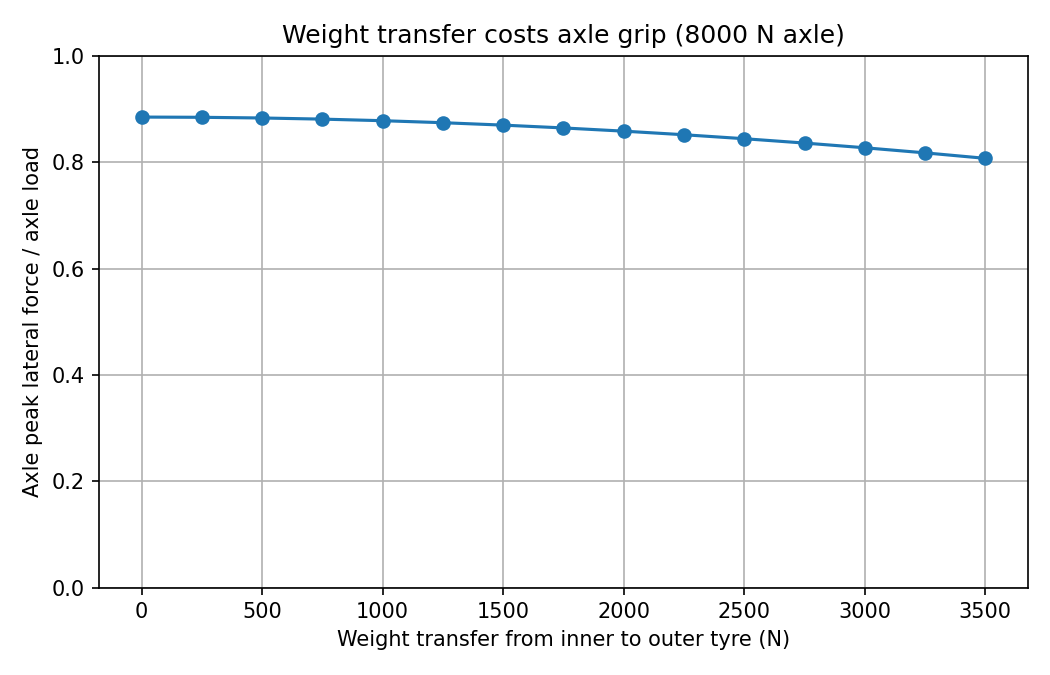
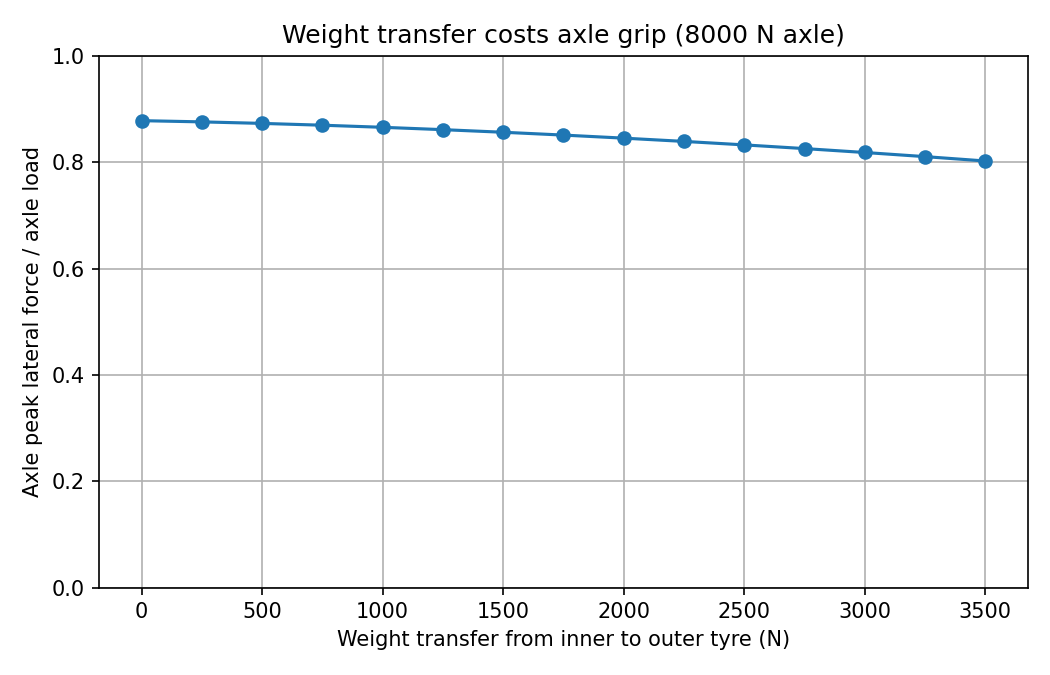
Update README and figure for mirrored tyres

Changed region(s): [[0.1219, 0.1556, 0.9448, 0.2489]]

diff --git a/README.md b/README.md
@@ -29,7 +29,7 @@ This is validation against another implementation, not against measured tyre dat
 
 ![Lateral force against slip angle](figures/lateral_force.png)
 
-Grip grows with load but less than in proportion: peak lateral force per newton of load falls from 0.91 at 2000 N to 0.81 at 8000 N.
+Grip grows with load but less than in proportion: the peak friction coefficient D/Fz falls from 0.91 at 2000 N to 0.81 at 8000 N.
 
 ![Friction ellipse](figures/friction_ellipse.png)
 
@@ -39,7 +39,7 @@ Braking or driving reduces the lateral force available, and a locked wheel keeps
 
 Weight transfer in a corner costs axle grip (about 9% at 3500 N on an 8000 N axle), which is why roll stiffness distribution sets a car's balance. Other findings from the notebooks:
 
-- A balanced car reaches 0.851 g against 0.838 g with 60% of the weight transfer at the front
+- A balanced car reaches 0.840 g, against 0.829 g with 60% of the weight transfer at the front
 - The best braking slip is about 12% at every load; a locked wheel keeps only about 72% of peak braking force
 
 ## Getting started
@@ -70,7 +70,7 @@ The notebooks in `notebooks/` walk through each step, from reading the `.tir` fi
 - Slip angle input as tan(alpha), following MF 6.1
 - Nominal inflation pressure, so pressure effects are inactive
 - Steady state only: no relaxation length or transient effects
-
+- Right-hand tyres are modelled as the mirror image of the left-hand tyre in the file, so the car behaves the same in left and right turns
 ## Credits
 
 - `data/sample.tir` is from the [ExternData](https://github.com/modelica-3rdparty/ExternData) project, BSD 2-Clause licence (see `data/LICENSE_sample_tir.txt`). Its header labels the tyre 225/50R17, but its dimensions describe a 205/60R15.
